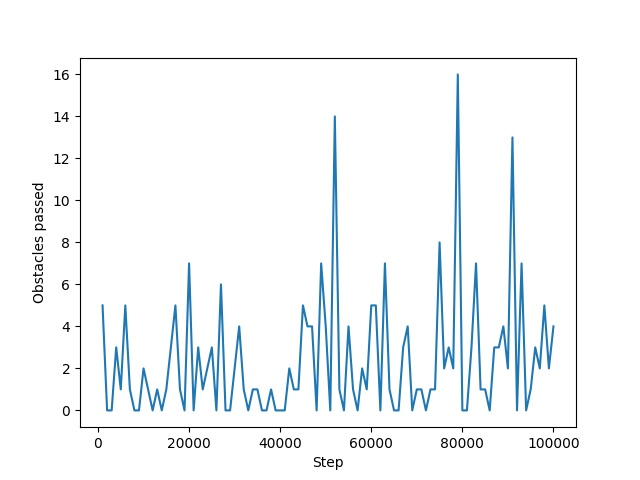
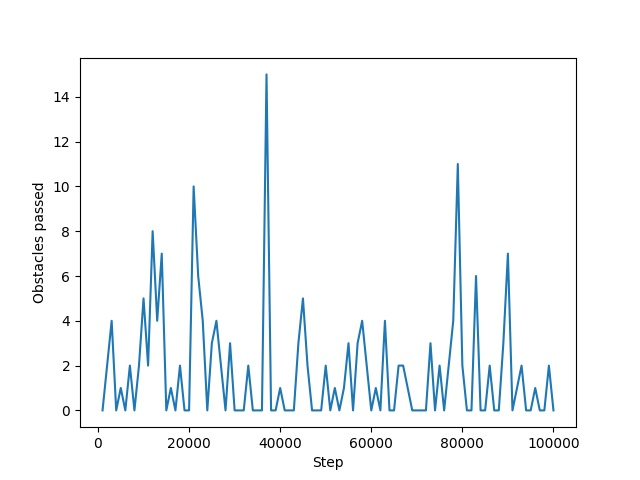
convergence i guess >+>

diff --git a/main.py b/main.py
@@ -10,14 +10,14 @@ def __main__():
     # Ai sarsa settings
     training = True
     epsilon = 0.9
-    gamma = 0.95
-    alpha = 0.75
+    gamma = 0.5
+    alpha = .95
     jump = 0.2
     stay = 0.8
     max_step = 100000
     steps = max_step
     passed_count = 0
-    reward = 0
+    
 
     # Define our windows
     if display_graphics:
@@ -46,7 +46,7 @@ def __main__():
 
     # Game Loop
     while (steps > 0):
-
+        reward = 0
         steps -= 1
 
         if (gamemode == 'human'):
@@ -62,13 +62,15 @@ def __main__():
 
         # if we hit an object make a large negative rewardqq
         if(game.just_collided):
-            reward -= 20
+            reward = -100
         # if we dodged an object reward positive
         elif(passed_count < game.obstacle_manager.passed):
             passed_count += 1
-            reward += 20
+            reward = 100
         elif(action1 == "jump"):
-            reward -=10
+            reward = -10
+        else:
+            reward = 10
         
         # Get next state action space
         state2 = ai.get_state(game.obstacle_manager.obstacles)

diff --git a/Game/sarsa.py b/Game/sarsa.py
@@ -35,9 +35,7 @@ class Sarsa():
         return choice
 
     def update_policy(self, key1, index1, key2, index2, reward):
-        #print(index1)
         predict = self.policy[key1][index1]
-        #print(index2)
         target = reward + self.gamma * self.policy[key2][index2]
         self.policy[key1][index1] += self.alpha * (target - predict)
 

diff --git a/Game/Constants.py b/Game/Constants.py
@@ -4,6 +4,6 @@ GROUND = 180
 WINDOW_WIDTH = 750
 WINDOW_HEIGHT = 500
 DELAY = 0.035
-NUM_OBSTACLES =1
+NUM_OBSTACLES = 2 
 UNIT_SIZE = 10
 SPAWN = 50
